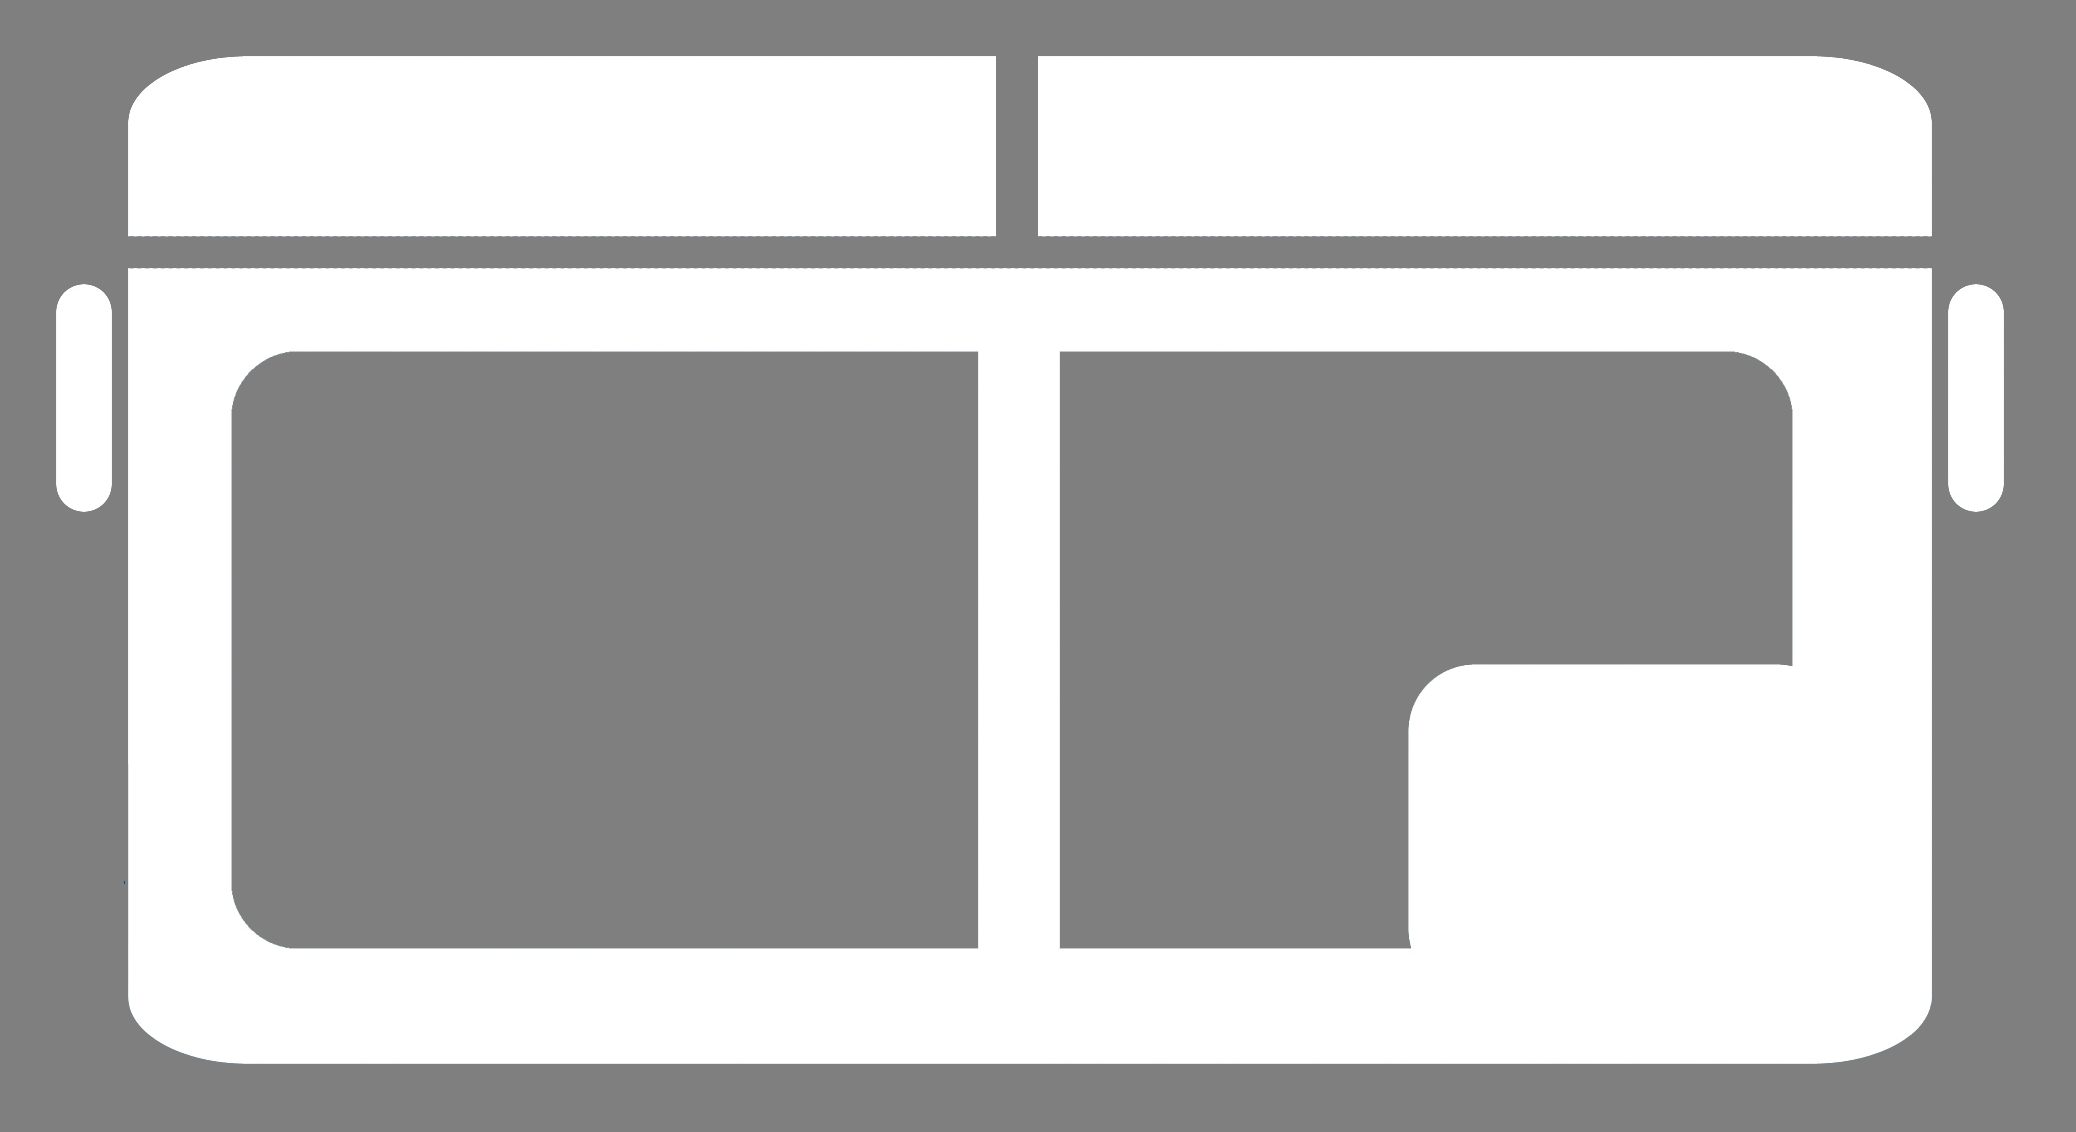
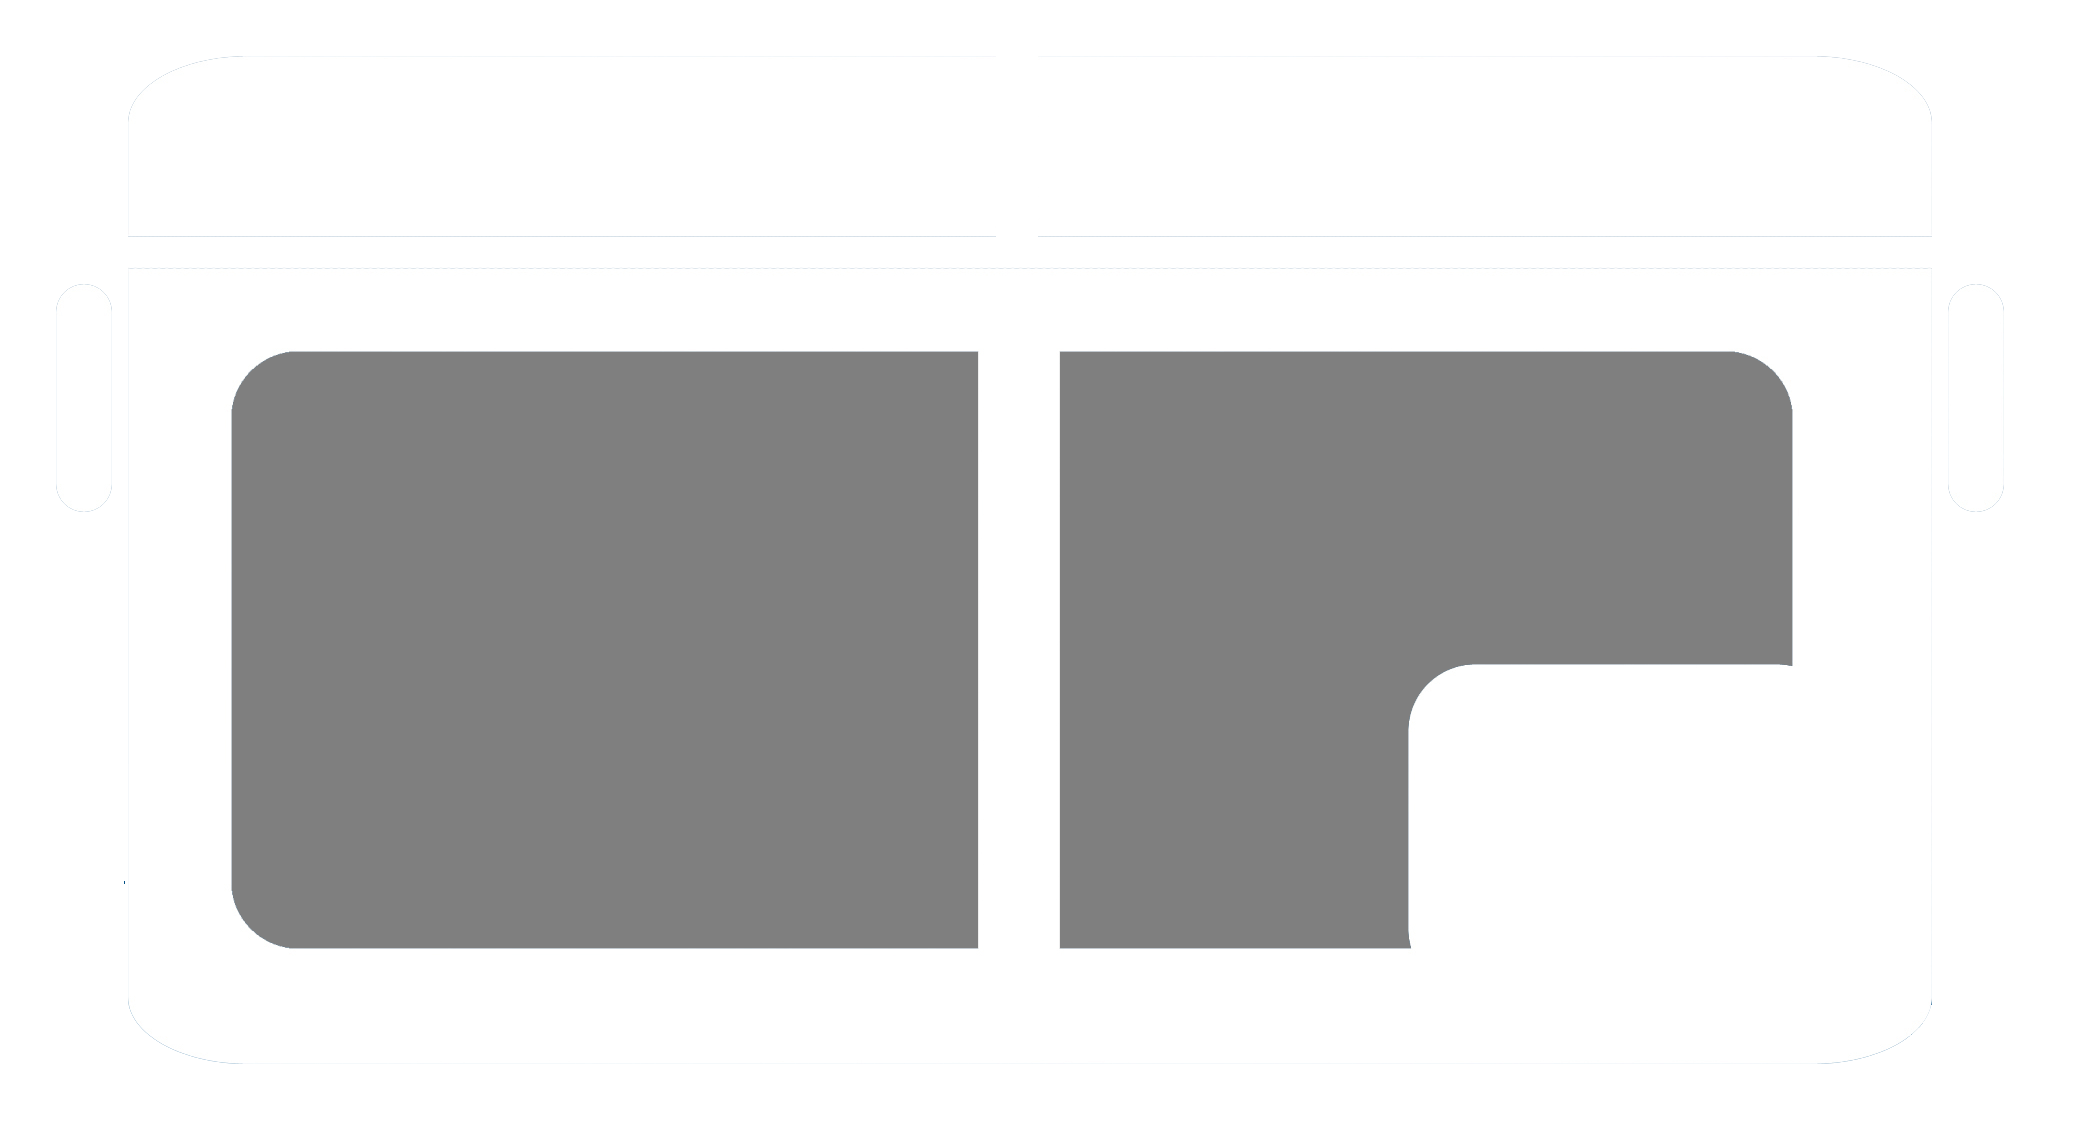
1.6版发布

Changed region(s): [[0.0, 0.0, 1.0, 1.0]]

diff --git a/evaKool/DoubleViewController.m b/evaKool/DoubleViewController.m
@@ -31,7 +31,7 @@
     
     [self.header socketConnectHost];
     [self.header initData];
-
+    
     //获取ssid
     UILabel *lbSSID = (UILabel *)[self.view viewWithTag:101];
     NSString *wifiSSID = [self currentWifiSSID];
@@ -58,7 +58,7 @@
 }
 
 -(void)viewWillAppear:(BOOL)animated{
-      self.header.delegate = self;
+    self.header.delegate = self;
 }
 
 
@@ -109,10 +109,58 @@
         tempR -=256;
     }
     lbTempRealRight.text = [NSString stringWithFormat:@"%hi℃",tempR];
+    
+    UIImageView *imageFridge = (UIImageView *)[self.view viewWithTag:100];
+    UIButton *btAddLeft = (UIButton *)[self.view viewWithTag:106];
+    UIButton *btDecLeft = (UIButton *)[self.view viewWithTag:107];
+    UIButton *btAddRight = (UIButton *)[self.view viewWithTag:108];
+    UIButton *btDecRight = (UIButton *)[self.view viewWithTag:109];
+    
+    
+    UIButton *btOn = (UIButton *)[self.view viewWithTag:110];
+    UIButton *btOff = (UIButton *)[self.view viewWithTag:111];
+    
+    
+    Byte onOff = self.header.dataRead.power;
+    if(onOff == 0x00){
+        btAddLeft.enabled = NO;
+        btDecLeft.enabled = NO;
+        btAddRight.enabled = NO;
+        btDecRight.enabled = NO;
+        btOn.enabled = YES;
+        btOff.enabled = NO;
+        
+        //btAdd.imageView.image = [UIImage imageNamed:@"onupOff.png"];
+        [btAddLeft setImage:[UIImage imageNamed:@"onupOff.png"] forState:UIControlStateDisabled];
+        [btDecLeft setImage:[UIImage imageNamed:@"ondownOff.png"] forState:UIControlStateDisabled];
+        [btAddRight setImage:[UIImage imageNamed:@"onupOff.png"] forState:UIControlStateDisabled];
+        [btDecRight setImage:[UIImage imageNamed:@"ondownOff.png"] forState:UIControlStateDisabled];
+        
+        [btOn setImage:[UIImage imageNamed:@"on.png"] forState:UIControlStateNormal];
+        [btOff setImage:[UIImage imageNamed:@"offOff.png"] forState:UIControlStateDisabled];
+        imageFridge.image = [UIImage imageNamed:@"FRIDGE2Off.png"];
+    }else{
+        btAddLeft.enabled = YES;
+        btDecLeft.enabled = YES;
+        btAddRight.enabled = YES;
+        btDecRight.enabled = YES;
+        btOn.enabled = NO;
+        btOff.enabled = YES;
+        
+        //btAdd.imageView.image = [UIImage imageNamed:@"onupOff.png"];
+        [btAddLeft setImage:[UIImage imageNamed:@"onup.png"] forState:UIControlStateDisabled];
+        [btDecLeft setImage:[UIImage imageNamed:@"ondown.png"] forState:UIControlStateDisabled];
+        [btAddRight setImage:[UIImage imageNamed:@"onup.png"] forState:UIControlStateDisabled];
+        [btDecRight setImage:[UIImage imageNamed:@"ondown.png"] forState:UIControlStateDisabled];
+        
+        [btOn setImage:[UIImage imageNamed:@"onOff.png"] forState:UIControlStateNormal];
+        [btOff setImage:[UIImage imageNamed:@"off.png"] forState:UIControlStateDisabled];
+        imageFridge.image = [UIImage imageNamed:@"FRIDGE2.png"];
+    }
 }
 
 -(void)onConnectBreak{
-      NSLog(@"connect break!");
+    NSLog(@"connect break!");
 }
 
 
@@ -179,23 +227,78 @@
 -(void) SetOn{
     self.header.dataWrite.data = 0x01;
     self.header.dataWrite.command = 0x02;
+    
+    UIImageView *imageFridge = (UIImageView *)[self.view viewWithTag:100];
+    UIButton *btAddLeft = (UIButton *)[self.view viewWithTag:106];
+    UIButton *btDecLeft = (UIButton *)[self.view viewWithTag:107];
+    UIButton *btAddRight = (UIButton *)[self.view viewWithTag:108];
+    UIButton *btDecRight = (UIButton *)[self.view viewWithTag:109];
+    
+    
+    UIButton *btOn = (UIButton *)[self.view viewWithTag:110];
+    UIButton *btOff = (UIButton *)[self.view viewWithTag:111];
+    
+    btAddLeft.enabled = YES;
+    btDecLeft.enabled = YES;
+    btAddRight.enabled = YES;
+    btDecRight.enabled = YES;
+    btOn.enabled = NO;
+    btOff.enabled = YES;
+    
+    //btAdd.imageView.image = [UIImage imageNamed:@"onupOff.png"];
+    [btAddLeft setImage:[UIImage imageNamed:@"onup.png"] forState:UIControlStateDisabled];
+    [btDecLeft setImage:[UIImage imageNamed:@"ondown.png"] forState:UIControlStateDisabled];
+    [btAddRight setImage:[UIImage imageNamed:@"onup.png"] forState:UIControlStateDisabled];
+    [btDecRight setImage:[UIImage imageNamed:@"ondown.png"] forState:UIControlStateDisabled];
+    
+    [btOn setImage:[UIImage imageNamed:@"onOff.png"] forState:UIControlStateNormal];
+    [btOff setImage:[UIImage imageNamed:@"off.png"] forState:UIControlStateDisabled];
+    imageFridge.image = [UIImage imageNamed:@"FRIDGE2.png"];
+    
     [self.header writeBoard];
 }
 
 -(void)SetOff{
     self.header.dataWrite.data = 0x00;
     self.header.dataWrite.command = 0x02;
+    UIImageView *imageFridge = (UIImageView *)[self.view viewWithTag:100];
+    UIButton *btAddLeft = (UIButton *)[self.view viewWithTag:106];
+    UIButton *btDecLeft = (UIButton *)[self.view viewWithTag:107];
+    UIButton *btAddRight = (UIButton *)[self.view viewWithTag:108];
+    UIButton *btDecRight = (UIButton *)[self.view viewWithTag:109];
+    
+    
+    UIButton *btOn = (UIButton *)[self.view viewWithTag:110];
+    UIButton *btOff = (UIButton *)[self.view viewWithTag:111];
+    
+    btAddLeft.enabled = NO;
+    btDecLeft.enabled = NO;
+    btAddRight.enabled = NO;
+    btDecRight.enabled = NO;
+    btOn.enabled = YES;
+    btOff.enabled = NO;
+    
+    //btAdd.imageView.image = [UIImage imageNamed:@"onupOff.png"];
+    [btAddLeft setImage:[UIImage imageNamed:@"onupOff.png"] forState:UIControlStateDisabled];
+    [btDecLeft setImage:[UIImage imageNamed:@"ondownOff.png"] forState:UIControlStateDisabled];
+    [btAddRight setImage:[UIImage imageNamed:@"onupOff.png"] forState:UIControlStateDisabled];
+    [btDecRight setImage:[UIImage imageNamed:@"ondownOff.png"] forState:UIControlStateDisabled];
+    
+    [btOn setImage:[UIImage imageNamed:@"on.png"] forState:UIControlStateNormal];
+    [btOff setImage:[UIImage imageNamed:@"offOff.png"] forState:UIControlStateDisabled];
+    imageFridge.image = [UIImage imageNamed:@"FRIDGE2Off.png"];
+    
     [self.header writeBoard];
 }
 
 /*
-#pragma mark - Navigation
-
-// In a storyboard-based application, you will often want to do a little preparation before navigation
-- (void)prepareForSegue:(UIStoryboardSegue *)segue sender:(id)sender {
-    // Get the new view controller using [segue destinationViewController].
-    // Pass the selected object to the new view controller.
-}
-*/
+ #pragma mark - Navigation
+ 
+ // In a storyboard-based application, you will often want to do a little preparation before navigation
+ - (void)prepareForSegue:(UIStoryboardSegue *)segue sender:(id)sender {
+ // Get the new view controller using [segue destinationViewController].
+ // Pass the selected object to the new view controller.
+ }
+ */
 
 @end
